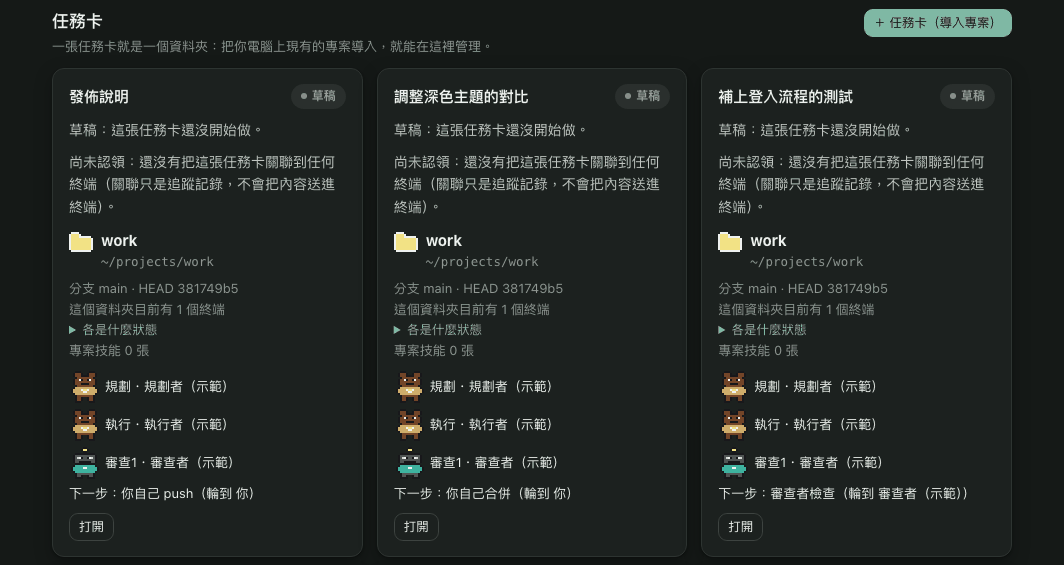
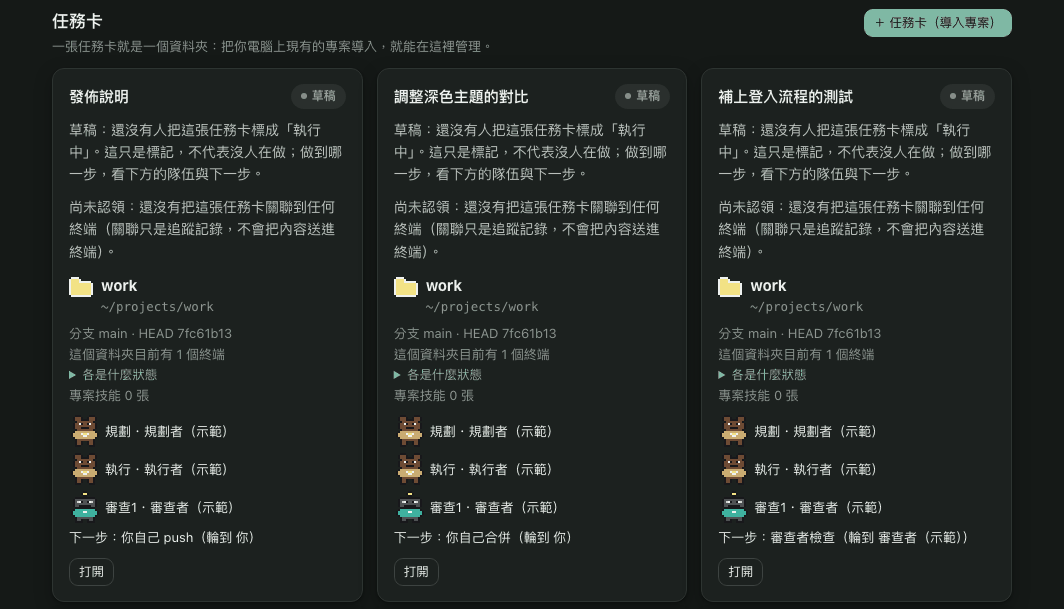
Say what a draft task card really means: nobody marked it in progress, not that work has not begun
The draft sentence and the badge tooltip claimed more than the status knows. tasks.py derives "draft" when no agent
field and no in-progress mark exist; the card's team and next step can already be well on their way. Both places that
show the sentence (workbench head, task card front) share one function, so both are fixed. A test pins the new words
and the absence of the old claim; the task-cards picture and both READMEs' captions are retaken to match.

diff --git a/web/app.js b/web/app.js
@@ -6695,7 +6695,7 @@ function computeTaskProvenance(prov = {}, rawStatus = "draft", closure = null) {
 }
 
 const TASK_STATUS_LABELS = {
-  draft: ["草稿", "b-mute", "尚未開始執行"],
+  draft: ["草稿", "b-mute", "還沒有人把這張任務卡標成「執行中」；這只是標記，不代表有沒有人在做"],
   in_progress: ["執行中", "b-info", "Agent 或開發者正在進行此任務"],
   agent_completed: ["待驗收 (Agent回報完成)", "b-warn", "Agent 已回報完成，但尚未通過測試驗證與人類核准"],
   verification_asserted: ["聲稱驗證通過 (Verification Asserted)", "b-ok", "此主控台無身份驗證：僅代表自動化測試與介面核准兩欄皆已透過本頁/API 自我回報為通過，並非經授權之正式驗證"],
@@ -6722,7 +6722,8 @@ const BINDING = {
   unknown: ["無法確認版本", "b-warn"], unbound: ["未綁定版本", "b-mute"], none: ["尚無結果", "b-mute"],
 };
 // A badge alone says little to someone new: these two get a sentence beside them (draft, and nobody has picked it up).
-const TASK_STATUS_EXPLAIN = { draft: "草稿：這張任務卡還沒開始做。" };
+// "draft" is what a card derives to when nobody marked it in progress: it says nothing about whether work has begun.
+const TASK_STATUS_EXPLAIN = { draft: "草稿：還沒有人把這張任務卡標成「執行中」。這只是標記，不代表沒人在做；做到哪一步，看下方的隊伍與下一步。" };
 const PICKUP_EXPLAIN = { unclaimed: "尚未認領：還沒有把這張任務卡關聯到任何終端（關聯只是追蹤記錄，不會把內容送進終端）。" };
 function taskStatusExplain(status, pickup) {
   const out = [];

diff --git a/README.zh-TW.md b/README.zh-TW.md
@@ -78,8 +78,8 @@ VBear 不會替你推進；讀不到的東西不會顯示。
 <img src="docs/images/task-cards.png" alt="任務卡區：一排任務卡，每張是一個資料夾，帶著分支、隊伍與下一步" width="992">
 
 **任務卡**（示範資料）：一張任務卡就是一個資料夾。卡上有資料夾、讀得到的分支與 HEAD、這個資料夾目前有幾個終端、放在上面的隊伍
-（規劃、執行、審查的位置），以及下一步輪到誰。還沒有終端認領的卡會直接寫明，並說明關聯只是追蹤記錄。（示範的任務卡都用同一個資料夾，
-所以每張看起來很像。）
+（規劃、執行、審查的位置），以及下一步輪到誰。還沒有人標成「執行中」的卡叫「草稿」，並照實寫明：這只是標記，不代表有沒有人開始做。還沒有終端認領的卡也會直接寫明，並說明關聯只是追蹤記錄。
+（示範的任務卡都用同一個資料夾，所以每張看起來很像。）
 
 <img src="docs/images/import-project.png" alt="新任務卡視窗：挑一個 VBear 看到的資料夾、最近用過的資料夾，或貼上路徑" width="520">
 

diff --git a/README.md b/README.md
@@ -86,8 +86,9 @@ edit; the permission advice behind each is folded. Right: the card pool in the *
 
 **Task cards** (demo data): a task card is one folder. It shows the folder, the branch and HEAD it could read, how many
 terminals are in that folder, the team on it (planning, doing and reviewing places) and the next step with who holds it.
-A card that no terminal has claimed says so, and says that linking is only a record. (The demo's cards all use the same
-folder, so the rows look alike.)
+A card that nobody has marked 「執行中」 (in progress) is called 「草稿」 (draft) and says exactly that: it is only a mark, not a
+measure of whether work has started. A card that no terminal has claimed says so, and says that linking is only a record.
+(The demo's cards all use the same folder, so the rows look alike.)
 
 <img src="docs/images/import-project.png" alt="The dialog for a new task card: pick a folder VBear found, a recently used one, or paste a path" width="520">
 
